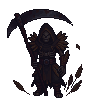
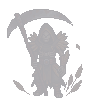
Ratos da Peste: rato avulso correndo e pilha de 12 quadros
Para o motor correr ratos avulsos dos lados: animations/rat_run (um rato de perfil, 48x32, corrida no lugar em 6 quadros, olhando para a direita; espelhar para o outro lado). O form virou um empilhamento de verdade em 12 quadros: os ratos sobem um a um sobre os dois do chao, caudas chicoteando, todos inteiros dentro do quadro (a tentativa anterior trazia ratos cortados pela borda). Ultimo quadro = idle 0.

diff --git a/tools/pixellab_entradas.py b/tools/pixellab_entradas.py
@@ -74,36 +74,23 @@ CLIPS = {
     },
     "hollow_farmer": {
         "walk": dict(frames=12, first="idle", end="idle", action=(
-            "limping walk toward the viewer, TWO full strides over the clip: each foot lifts clearly off the ground and plants again with a visible weight shift onto that side, the body dips lower on the lame leg, the pitchfork is dragged along the ground scraping, then lifted and planted upright at the end with a thud, the torn apron and ragged sleeves swing with every step, the straw hat brim bobs, small dust puffs at the feet, then it settles into its hunched stance")),
+            "a laboured limping walk toward the viewer with the WHOLE body, two full strides: the good leg steps and plants, then the lame leg drags behind and the body lurches down onto it, the shoulders tilt and rock with every step, the head bobs and sways, the torso twists toward the stepping side, the wide straw hat brim bounces and flaps, the patched coat and torn apron swing out and back, loose straw bits and dust shake off his clothes, the pitchfork tines drag along the ground kicking up little clods of dirt; at the end he heaves the pitchfork upright and plants it with a thud, settling into his hunched stance")),
     },
     "plague_rats": {
         "form": dict(frames=12, first="rats_bottom", end="idle", action=(
-            "many plague rats converge from both sides along the ground: rats run in from the left and from the right, climbing over the rats already there, tails whipping, heads twitching, some squeak with open mouths, the heap grows a little taller in every frame as rats scramble on top of each other, loose rats at the edges still crawling and twitching, until the full stacked heap is formed and settles still; every rat always touches the ground or another rat, nothing floats, nothing drops from above")),
+            "a frantic pile-up: more rats appear crawling up from behind the two rats on the ground and climb over each other onto them, every rat drawn whole and fully inside the frame, none cut by the edges, claws gripping fur, bodies squirming, bald pink tails whipping and curling, heads twisting, red eyes glinting, mouths opening to squeak, the heap grows taller rat by rat in every frame, the rats underneath shifting under the weight, until the full stacked heap is formed and settles; every rat always touches the ground or another rat, nothing floats, nothing drops from above")),
     },
     "harvest_reaper": {
-        "form": dict(frames=8, first="mist", end="idle", action=(
-            "materialises slowly out of a dark shapeless mist: the black "
-            "shadow brightens a little more in EVERY frame, steadily and "
-            "gradually from the first frame to the last, never getting "
-            "darker again, the hood, wheat straw shoulders and the long "
-            "scythe resolving with color returning from the center outward, "
-            "the body perfectly still, ending fully solid in its standing "
-            "stance")),
+        "form": dict(frames=12, first="ghost", end="idle", action=(
+            "the reaper slowly materialises inside dark mist: in the first frames only a faint dark ghostly outline is visible, then frame by frame the shape grows a little more solid and detailed, the hood, the golden wheat straw shoulders and the robe filling in with colour from the centre outward, the long scythe solidifying last, the body perfectly still, the colours never get brighter than the final frame and the wheat shoulders never glow, only one thin glint of light runs along the scythe blade in the final frames, ending fully solid in its standing stance")),
     },
     "blight_bull": {
         "charge": dict(frames=12, first="idle", end="idle", action=(
             "heavy gallop straight toward the viewer, two full gallop strides: the front hooves reach forward and slam down, then the hind hooves, the massive shoulders and hump rise and fall with each bound, the head swings low with the horns forward, loose rotting hide flaps, the wheat stalks tangled in the hide whip about, steam bursts from the nostrils with every breath, dust kicks up at the hooves; at the end it skids to a stop with the front legs braced stiff, the head tossing up with a snort, then settles into its standing stance")),
     },
     "wicker_effigy": {
-        "awaken": dict(frames=8, first="unlit", end="idle", action=(
-            "the dark unlit wicker giant ignites from the inside: a single "
-            "small ember glows in the woven chest, a small fire grows in "
-            "the ribcage, then small flames catch on both shoulders and the "
-            "skull eyes light up, the body straightens and the long arms "
-            "spread slightly as it comes alive, then settles into its "
-            "standing stance; the woven wicker body itself stays dark "
-            "brown wood in every frame, it never glows, never turns yellow "
-            "or bright, only the three small fires and the eyes give light")),
+        "awaken": dict(frames=12, first="unlit", end="idle", action=(
+            "the dark unlit wicker giant ignites: a few glowing embers drift onto it, then a small flame catches inside the woven chest, fire spreads up through the weave in licking red-orange tongues with thin dark smoke, the flames burst onto both shoulders, the skull eye sockets ignite, it straightens and lifts its long arms as the fire roars inside, burning straw sparks falling, then it settles into its standing stance; the fire is real fire: red, orange and yellow flames only, never white, never blown out, with dark smoke; the woven wicker stays dark brown wood and is never painted gold or bright")),
     },
     "moon_gargoyle": {
         "awaken": dict(frames=8, first="statue", end="idle", action=(
@@ -336,7 +323,10 @@ def derive(eid, kind):
             r, g, b, a = px[x, y]
             if a == 0:
                 continue
-            if kind == "mist":
+            if kind == "ghost":
+                k = 0.12
+                po[x, y] = (int(r * k + 18), int(g * k + 14), int(b * k + 24), int(a * 0.35))
+            elif kind == "mist":
                 k = 0.14
                 po[x, y] = (int(r * k + 16), int(g * k + 12), int(b * k + 22), a)
             elif kind == "dark":
@@ -576,6 +566,26 @@ POSES = {
 
 
 STAGES = {
+    "hollow_farmer/walk": [
+        dict(first="idle", last="file:tools/preview_out/entradas_arte/ato1/derived/hollow_farmer_stride1.png",
+             frames=4, action=(
+                 "lurches forward into a heavy limping step: the good leg strides out and plants, the "
+                 "body pitches forward and down, the shoulders roll, the head bobs, the hat brim "
+                 "bounces, the coat and torn apron swing back, straw bits and dust shake off, the "
+                 "pitchfork tips down and its tines drag on the ground kicking up dirt")),
+        dict(first="file:tools/preview_out/entradas_arte/ato1/derived/hollow_farmer_stride1.png",
+             last="file:tools/preview_out/entradas_arte/ato1/derived/hollow_farmer_stride2.png",
+             frames=4, action=(
+                 "drags the lame leg through and heaves into the next limping step: the torso twists "
+                 "to the other side, the shoulders rock, the head lolls and bobs, the hat brim flaps, "
+                 "the coat and apron swing across, the pitchfork tines scrape along the ground "
+                 "kicking up clods of dirt, dust puffing at the feet")),
+        dict(first="file:tools/preview_out/entradas_arte/ato1/derived/hollow_farmer_stride2.png",
+             last="idle", frames=4, action=(
+                 "drags the lame leg up beside the other and stops, heaving the pitchfork upright and "
+                 "planting it with a thud, dust puffing, the coat and apron swinging and settling, "
+                 "the hat brim bouncing once, settling into its hunched stance")),
+    ],
     "cursed_scarecrow/awaken": [
         dict(first="file:tools/preview_out/entradas_arte/ato1/derived/cursed_scarecrow_limp.png",
              last="file:tools/preview_out/entradas_arte/ato1/derived/cursed_scarecrow_crouch.png",

diff --git a/memory/enemy_entrances_art.md b/memory/enemy_entrances_art.md
@@ -126,3 +126,7 @@ Fabrica propria: `python tools/pixellab_entradas_b.py run|run2|run3|poll|strip|i
 | fallen_angel | land | ok, sutil | 2 | asas sobem, joelhos dobram pouco |
 
 Ancoras (`assets/sprites/world/anchors/`): frost_troll 110x59 monte de neve com pedras; ice_wyrm 104x34 lombada de neve rachada; bog_ghoul 82x29 lama com bolhas e osso; leech_horror 102x33 poca com pedras; spore_mother 102x67 moita de cogumelos; grave_thrall 87x40 terra revolvida com lapide; dusk_shade 71x28 poca de sombra com fios roxos.
+
+## Rodada 3 (dono, ato 1: "quase nada de detalhe", "o 6 fraco")
+- plague_rats: o motor passa a correr ratos avulsos dos lados. Pecas: `animations/rat_run/south/0..5.png` (48x32, UM rato de perfil olhando para a DIREITA, corrida no lugar, loop de 6 quadros: espelhe para o lado esquerdo), still escolhido entre 36 candidatas do `create_image_pro` (`ato1/rat_stills.png`, o 24) e animado com o primeiro e o ultimo quadro pinados no mesmo still. `form` virou empilhamento de 12 quadros: 1a tentativa trazia ratos CORTADOS pela borda do canvas (o modelo os fez entrar de fora) e uma cabeca solta; 2a com "every rat drawn whole and fully inside the frame" saiu limpa (de 2 ratos no chao a pilha, um por quadro, caudas chicoteando).
+
